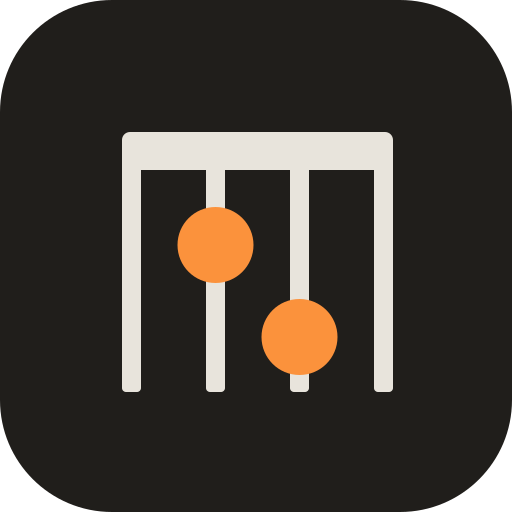
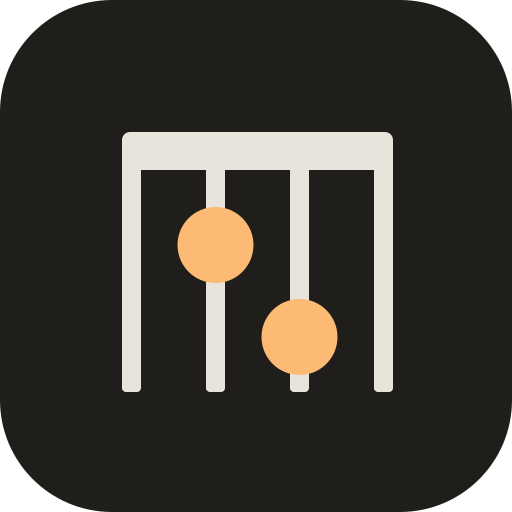
Put the mark in the wordmark's orange
The dots were the accent orange the buttons use, so the icon and the
word 'nacle' beside it were two different oranges. Both belong to the
application; only one belongs to the wordmark.

Changed region(s): [[0.5, 0.5625, 0.6562, 0.75], [0.3438, 0.4062, 0.5, 0.5625]]

diff --git a/assets/thumbnail.html b/assets/thumbnail.html
@@ -40,7 +40,7 @@ svg { width: 250px; height: 250px; flex: 0 0 auto }
     <rect x="374" y="152" width="19" height="240" rx="4"/>
     <rect x="122" y="132" width="271" height="38" rx="8"/>
   </g>
-  <g fill="#fb923c">
+  <g fill="#fdba74">
     <circle cx="215.5" cy="245" r="38"/>
     <circle cx="299.5" cy="337" r="38"/>
   </g>

diff --git a/assets/README.md b/assets/README.md
@@ -8,7 +8,11 @@
 | `screenshot-1..3.png` | the chord page, a song sheet, the library |
 
 The mark is the wordmark's idea in a picture: `Taber` pale, `nacle` orange, so the
-structure of the grid is the pale half and the fingers are the orange one. It
+structure of the grid is the pale half and the fingers are the orange one. The
+orange is the chord token — the one `nacle` is set in — and not the stronger
+accent the buttons and the fretboard dots use. Both belong to the application;
+only one belongs to the wordmark, and a mark that sits next to it has to be that
+one, or the identity ends up carrying two oranges. It
 carries no fret lines, because at forty-eight pixels in a dock they turn to mush
 and take the dots with them; and the dots sit on the two inner strings so they
 stay inside the rectangle rather than hanging off its edge.
